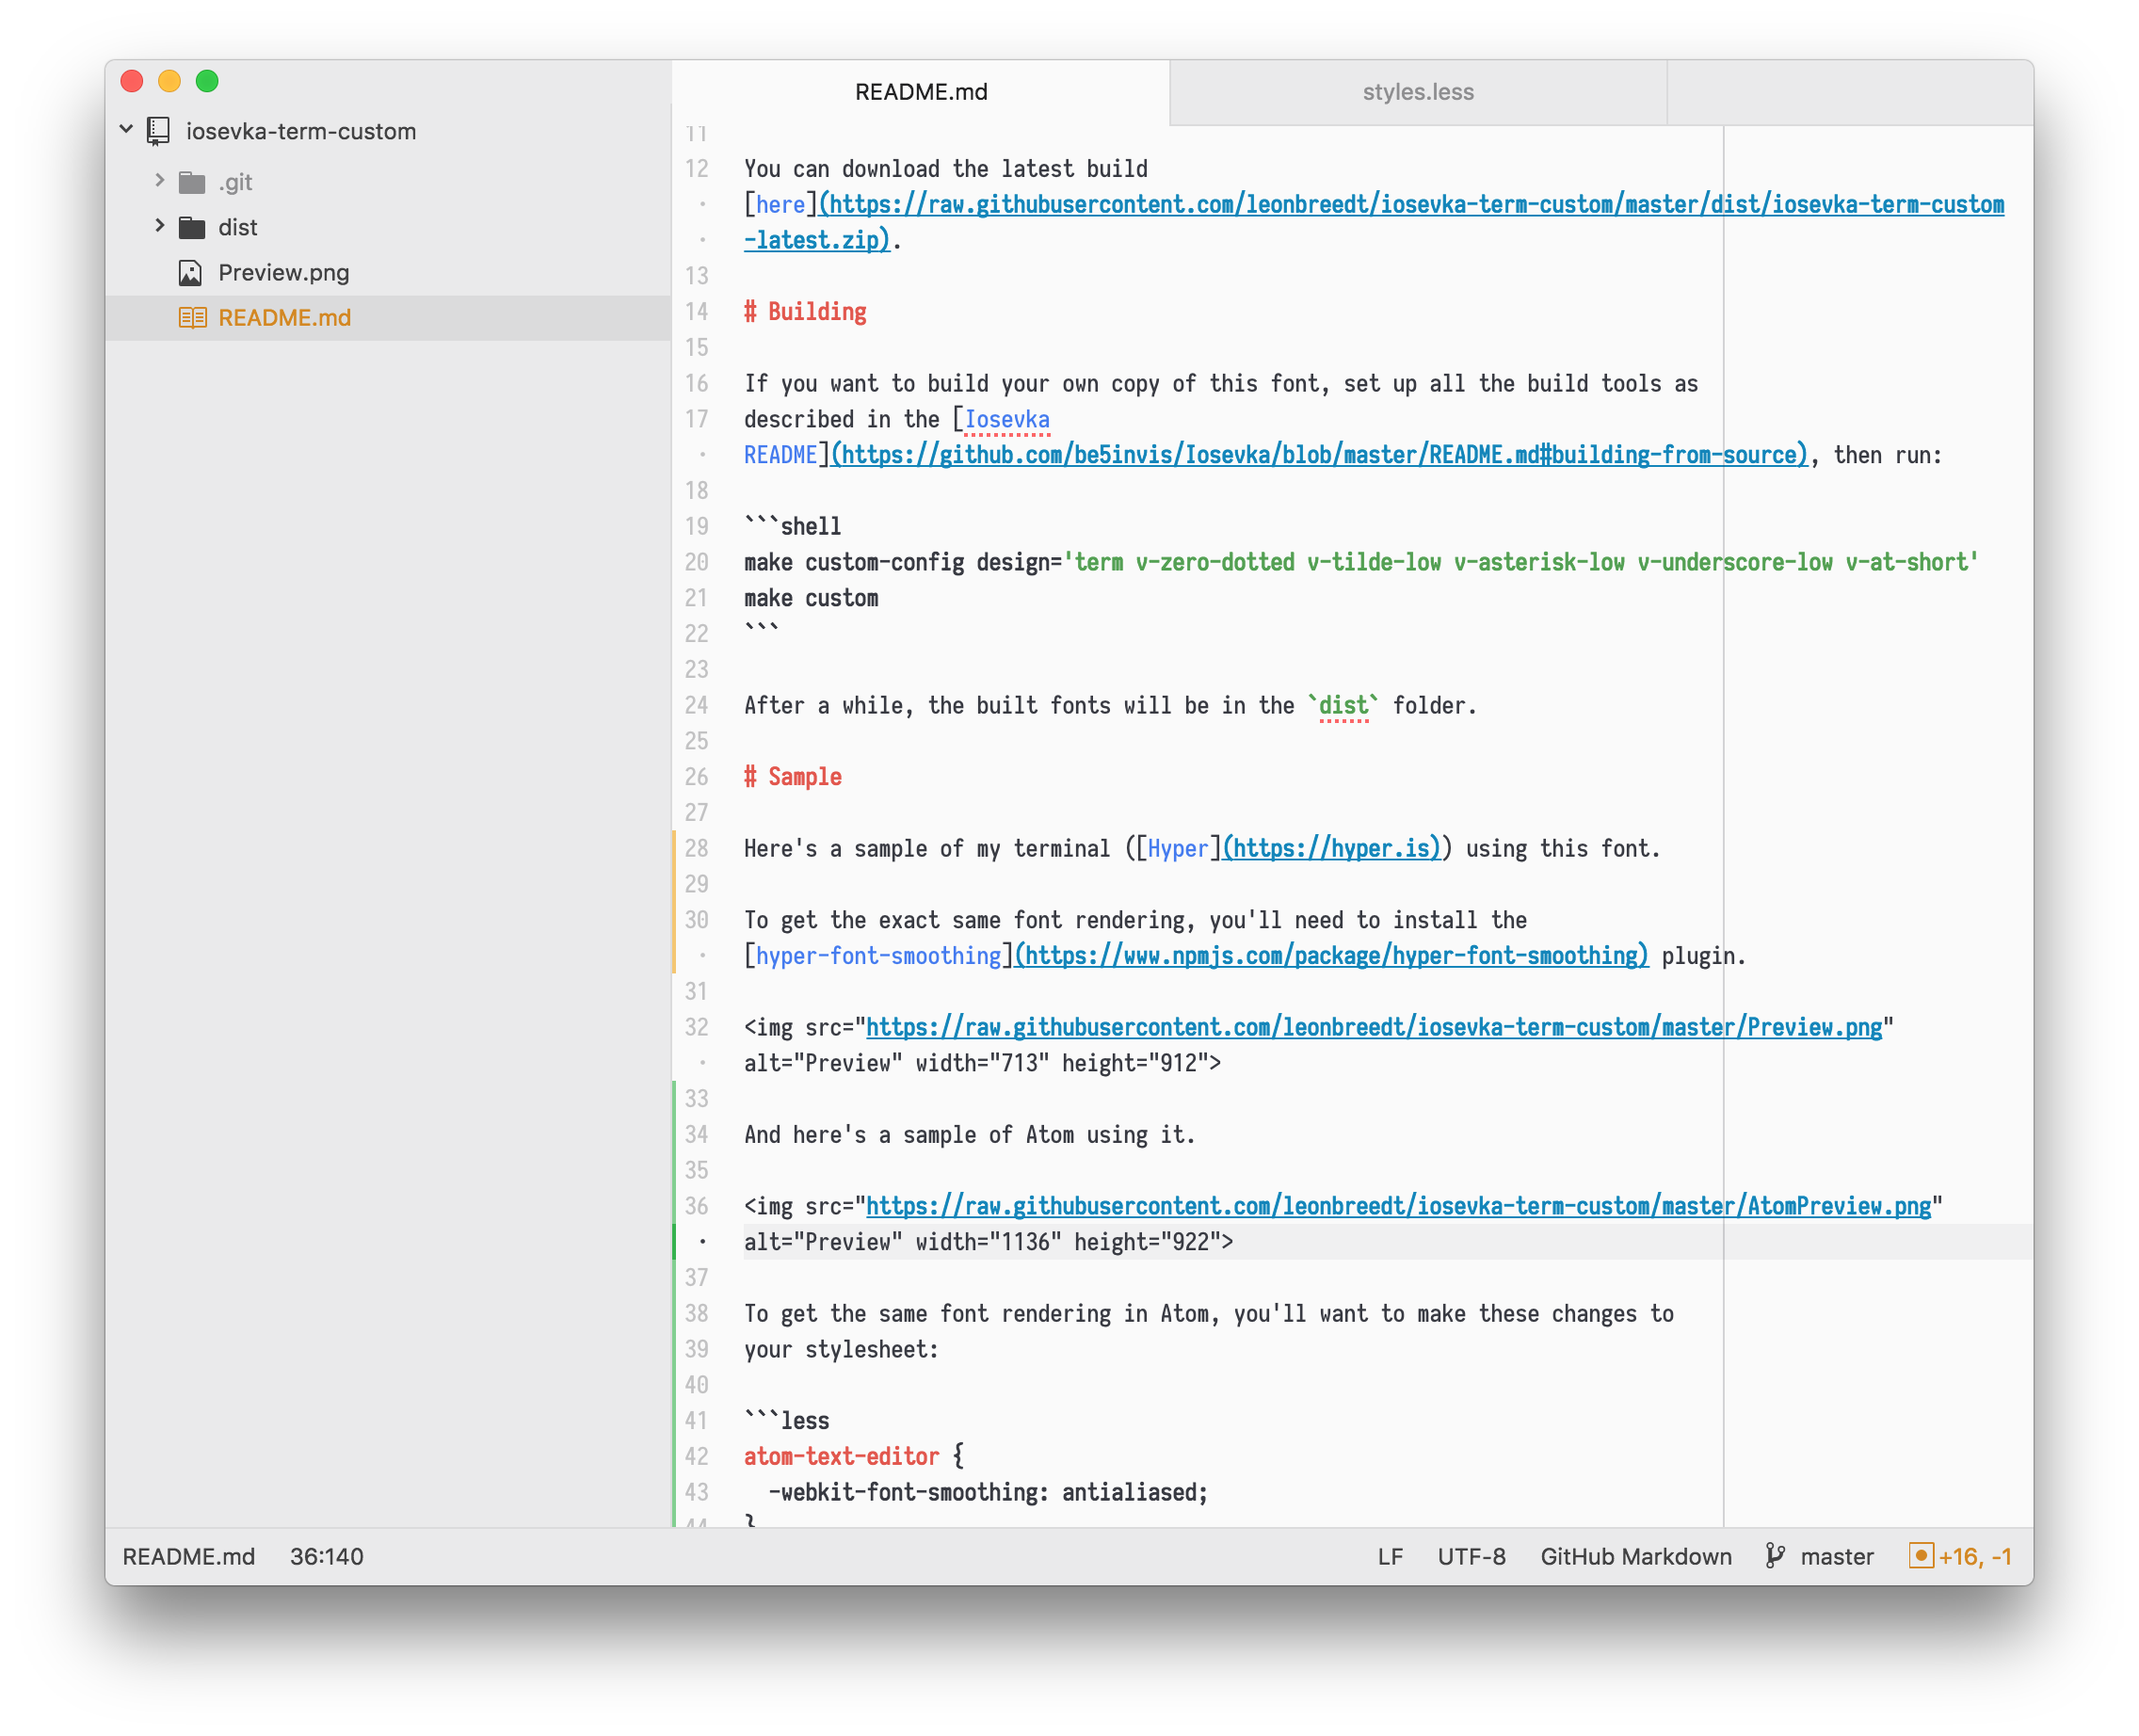
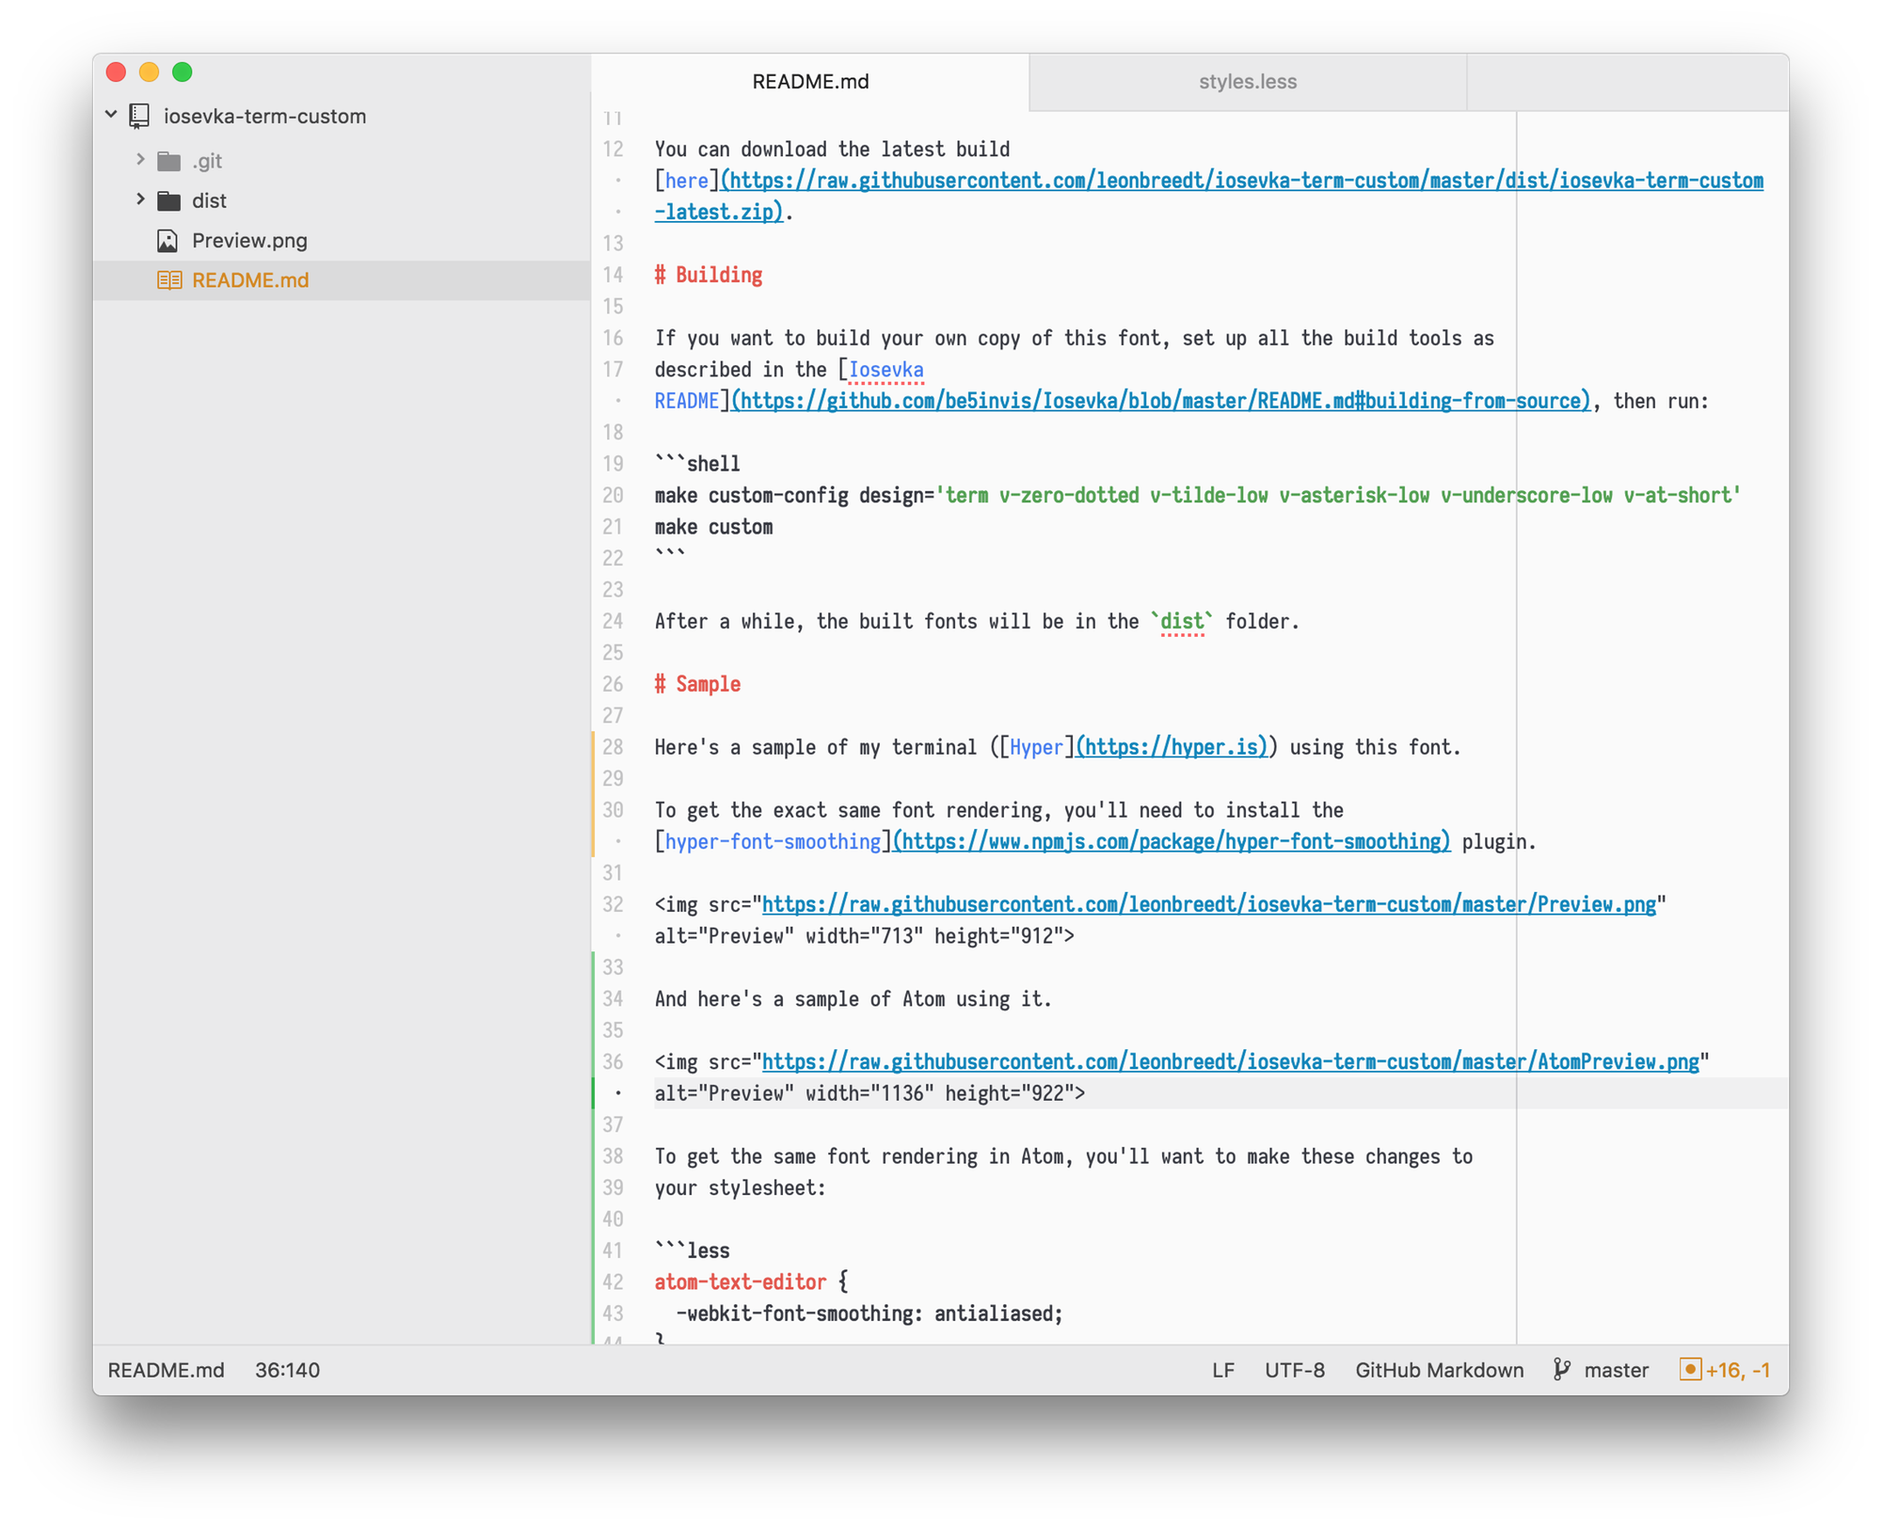
Resize image a tad.

diff --git a/README.md b/README.md
@@ -29,11 +29,11 @@ Here's a sample of my terminal ([Hyper](https://hyper.is)) using this font.
 
 To get the exact same font rendering, you'll need to install the [hyper-font-smoothing](https://www.npmjs.com/package/hyper-font-smoothing) plugin.
 
-<img src="https://raw.githubusercontent.com/leonbreedt/iosevka-term-custom/master/Preview.png" alt="Preview" width="713" height="912">
+<img src="https://raw.githubusercontent.com/leonbreedt/iosevka-term-custom/master/Preview.png" alt="Terminal Preview" width="713" height="912">
 
 And here's a sample of Atom using it.
 
-<img src="https://raw.githubusercontent.com/leonbreedt/iosevka-term-custom/master/PreviewAtom.png" alt="Preview" width="1136" height="922">
+<img src="https://raw.githubusercontent.com/leonbreedt/iosevka-term-custom/master/PreviewAtom.png" alt="Atom Preview" width="1000" height="812">
 
 To get the same font rendering in Atom, you'll want to make these changes to
 your stylesheet:
